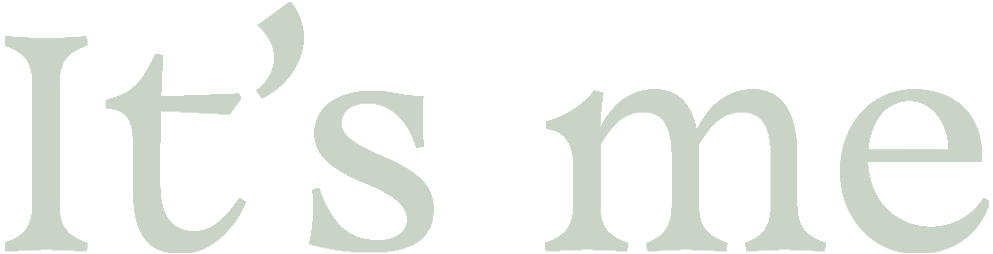
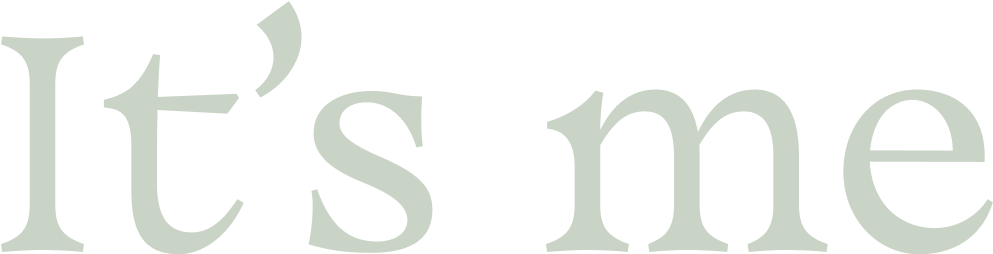
tons of little fixes and make it not garbage on mobile

diff --git a/src/About.tsx b/src/About.tsx
@@ -1,51 +1,59 @@
-import { ShaderCanvas } from "./ShaderCanvas";
-import { miniFrag } from "./frag/frag";
 import me from "./img/pic.jpg";
 
 export default function AboutContent() {
   return (
     <div className="w-screen min-h-screen relative flex md:flex-row flex-col justify-center item-center">
-      <div className="w-[30rem] h-auto flex items-center">
+      <div className="w-full md:w-[30rem] h-auto flex items-center">
         <div className="[&>p]:m-8 [&>p]:text-primary p-4 relative">
           <p className="font-bold">yeah you heard it</p>
           <p>i’m noah finer, i work at figma and live in san francisco</p>
           <p>that is a picture of me (nice)</p>
-          <p>you should click on the links below</p>
-          <div className="flex flex-wrap max-w-[30rem] justify-start items-center w-full p-4">
-            {/* TODO need my resume */}
+          <p>here's some links i couldn't find another spot for</p>
+          <div className="flex flex-wrap max-w-[30rem] justify-start items-center w-full p-4 gap-2">
             <a
-              href="https://google.com"
+              href="https://www.linkedin.com/in/noahfiner/"
               target="_blank"
               rel="noreferrer"
-              className="text-primary hover:bg-primary hover:text-secondary p-4"
+              className="text-primary hover:bg-primary hover:text-secondary p-4 border-2 border-primary"
             >
-              resume
+              linkedin
             </a>
             <a
-              href="https://open.spotify.com/artist/6logsn6gZDzDoEdZvnKn1d?si=jve52Ch-T6e9jcb7MK5VMQ"
+              href="https://twitter.com/finerflame"
               target="_blank"
               rel="noreferrer"
-              className="text-primary hover:bg-primary hover:text-secondary p-4"
+              className="text-primary hover:bg-primary hover:text-secondary p-4 border-2 border-primary"
             >
-              mc finer flame
+              inactive twitter (or X)
             </a>
             <a
-              href="https://finer.photo"
+              href="https://github.com/noahfiner"
               target="_blank"
               rel="noreferrer"
-              className="text-primary hover:bg-primary hover:text-secondary p-4"
+              className="text-primary hover:bg-primary hover:text-secondary p-4 border-2 border-primary"
             >
-              finer.photo
+              github
+            </a>
+            <a
+              href="mailto:noahfiner@gmail.com"
+              target="_blank"
+              rel="noreferrer"
+              className="text-primary hover:bg-primary hover:text-secondary p-4 border-2 border-primary"
+            >
+              email me
+            </a>
+            <a
+              href="https://old.noahfiner.com"
+              target="_blank"
+              rel="noreferrer"
+              className="text-primary hover:bg-primary hover:text-secondary p-4 border-2 border-primary"
+            >
+              old portfolio site from 2016
             </a>
           </div>
         </div>
       </div>
       <div className="md:w-80 relative md:my-auto ">
-        <div className="md:w-32 md:h-[20rem] w-[10rem] h-24 right-[6rem] top-[-2rem] md:right-0 absolute -z-10">
-          <div className="w-full h-full relative">
-            <ShaderCanvas frag={miniFrag}></ShaderCanvas>
-          </div>
-        </div>
         <img className="w-60 h-auto m-auto" alt="ya boi" src={me} />
       </div>
     </div>

diff --git a/src/Home.tsx b/src/Home.tsx
@@ -21,15 +21,17 @@ export default function Home() {
 
   const [visibleIdx, setVisibleIdx] = useState(0);
 
+  const height = document.documentElement.clientHeight;
+
   const onScroll = useCallback(() => {
     let scroll = window.scrollY;
-    if (scroll < window.innerHeight) scroll += 300;
-    let shouldShow = Math.floor((scroll + 50) / window.innerHeight) - 1;
+    if (scroll < height) scroll += 300;
+    let shouldShow = Math.floor((scroll + 50) / height) - 1;
 
     if (visibleIdx !== shouldShow) {
       setVisibleIdx(shouldShow);
     }
-  }, [visibleIdx, setVisibleIdx]);
+  }, [height, visibleIdx]);
 
   useEffect(() => {
     window.addEventListener("scroll", onScroll);
@@ -127,8 +129,8 @@ export default function Home() {
   ];
   return (
     <>
-      <div className="w-screen h-screen relative bg-secondary">
-        <div className="w-full h-full absolute">
+      <div className={`w-screen h-svh relative bg-secondary`}>
+        <div className="w-full h-svh absolute">
           <ShaderCanvas
             frag={frag}
             setUniforms={{
@@ -183,10 +185,8 @@ export default function Home() {
               } else {
                 window.scroll({
                   top:
-                    Math.floor(
-                      (window.scrollY + window.innerHeight + 100) /
-                        window.innerHeight
-                    ) * window.innerHeight,
+                    Math.floor((window.scrollY + height + 100) / height) *
+                    height,
                   left: 0,
                   behavior: "smooth",
                 });
@@ -198,7 +198,7 @@ export default function Home() {
         </div>
       </div>
 
-      <div className="w-full h-full fixed -z-10 top-0">
+      <div className="w-full h-lvh fixed -z-10 top-0">
         <ShaderCanvas
           frag={introFrag}
           setUniforms={{
@@ -213,7 +213,7 @@ export default function Home() {
 
       {intros.map((intro, idx) => (
         <div
-          className={`w-[80vw] max-w-xl h-screen relative text-primary flex flex-wrap justify-start items-between p-8 md:p-16`}
+          className={`w-[80vw] max-w-xl h-lvh relative text-primary flex flex-wrap justify-start items-between p-8 md:p-16`}
         >
           <h1
             className={`font-basteleur text-[6rem] md:text-[12rem] leading-[0.75] drop-shadow-intro transition-all duration-300 ${
@@ -226,11 +226,11 @@ export default function Home() {
           </h1>
           <div
             className={`h-50 flex flex-wrap flex-col justify-end gap-8 [&>p]:drop-shadow-introbody font-bold
-                      [&>p]:text-xl [&>p]:transition-all [&>p]:duration-300 ${
-                        idx === visibleIdx
-                          ? "[&>p]:opacity-100 [&>p]:translate-y-0"
-                          : "[&>p]:opacity-0 [&>p]:-translate-y-4"
-                      }`}
+              [&>p]:text-lg [&>p]:md:text-xl [&>p]:transition-all [&>p]:duration-300 ${
+                idx === visibleIdx
+                  ? "[&>p]:opacity-100 [&>p]:translate-y-0"
+                  : "[&>p]:opacity-0 [&>p]:-translate-y-4"
+              }`}
           >
             {intro.content}
           </div>

diff --git a/src/ContentPage.tsx b/src/ContentPage.tsx
@@ -6,14 +6,16 @@ import { miniFrag, titleFrag } from "./frag/frag";
 
 export function ContentPage({
   titleFragUniforms,
+  selected,
   children,
 }: PropsWithChildren<{
+  selected?: "me" | "projects" | "pics";
   titleFragUniforms?: { [key: string]: string | number };
 }>) {
   console.log(titleFragUniforms);
   return (
-    <div className="bg-secondary">
-      <div className="w-screen h-96 border-bottom-primary relative p-8">
+    <div className="bg-secondary pb-12">
+      <div className="w-screen h-52 md:h-72 border-bottom-primary relative p-8">
         <div className="h-full flex relative right-0 justify-start flex-col items-end">
           <Link to="/">
             <div className="h-16 w-16 cursor-pointer">
@@ -21,17 +23,29 @@ export function ContentPage({
             </div>
           </Link>
           <Link to="/me">
-            <p className="text-primary p-2 min-w-24 text-right hover:bg-primary hover:text-secondary">
+            <p
+              className={`text-primary text-lg p-2 md:text-base min-w-24 text-right hover:bg-primary hover:text-secondary ${
+                selected === "me" ? "underline" : ""
+              }`}
+            >
               me
             </p>
           </Link>
           <Link to="/projects">
-            <p className="text-primary p-2 min-w-24 text-right hover:bg-primary hover:text-secondary">
+            <p
+              className={`text-primary text-lg p-2 md:text-base min-w-24 text-right hover:bg-primary hover:text-secondary ${
+                selected === "projects" ? "underline" : ""
+              }`}
+            >
               projs
             </p>
           </Link>
           <Link to="/pics">
-            <p className="text-primary p-2 min-w-24 text-right hover:bg-primary hover:text-secondary">
+            <p
+              className={`text-primary text-lg p-2 md:text-base min-w-24 text-right hover:bg-primary hover:text-secondary ${
+                selected === "pics" ? "underline" : ""
+              }`}
+            >
               pics
             </p>
           </Link>
@@ -41,7 +55,7 @@ export function ContentPage({
             <ShaderCanvas frag={miniFrag} />
           </div>
         </div>
-        <div className="h-[16rem] top-[4rem] w-[30rem] md:w-[47rem] -left-4 md:left-8 absolute">
+        <div className="h-[8rem] sm:h-[16rem] top-[7rem] sm:top-[4rem] w-[20rem] sm:w-[30rem] md:w-[47rem] -left-4 md:left-8 absolute pointer-events-none">
           <div className="w-full h-full relative">
             <ShaderCanvas frag={titleFrag} setUniforms={titleFragUniforms} />
           </div>

diff --git a/src/App.tsx b/src/App.tsx
@@ -31,6 +31,7 @@ function About() {
         image_size_x: 993,
         image_size_y: 254,
       }}
+      selected="me"
     >
       <AboutContent />
     </ContentPage>
@@ -45,6 +46,7 @@ function Projects() {
         image_size_x: 1211,
         image_size_y: 296,
       }}
+      selected="projects"
     >
       <ProjectsContent />
     </ContentPage>
@@ -59,6 +61,7 @@ function Pics() {
         image_size_x: 1029,
         image_size_y: 242,
       }}
+      selected="pics"
     >
       <p>Pics asdfasdf</p>
     </ContentPage>

diff --git a/src/frag/frag.ts b/src/frag/frag.ts
@@ -314,11 +314,11 @@ void main(void)
     float dist = distance(vec2(mouse.x, mouse.y), v_texcoord);
 
     // -1 means first texture, 1 means second texture
-    float transitionAmt = smoothstep(0.1, 1.0, fract(u_scroll)) * 2.0 - 1.0;
+    float transitionAmt = smoothstep(-0.3, 1.0, fract(u_scroll)) * 2.0 - 1.0;
     
     float adjustedTime = u_time*0.05;
     
-    vec2 uv_fbm = (3. - 1.*v_texcoord);
+    vec2 uv_fbm = (3. - 2.*st);
     
     float noise = noise2d(sin(v_texcoord * u_time)*10000. + 300.)*1.0;
     

diff --git a/src/Projects.tsx b/src/Projects.tsx
@@ -23,7 +23,7 @@ function ProjectCard({ project }: { project: Project }) {
           className="h-48 md:h-full w-auto"
         />
         <div className="flex-grow h-full flex flex-col justify-between items-start md:gap-0 gap-4">
-          <div className="flex w-full relative justify-between items-center">
+          <div className="flex w-full relative justify-between items-center flex-wrap">
             <p className="font-bold p-2 -m-2">{project.title}</p>
             <p>{project.date}</p>
           </div>

diff --git a/public/index.html b/public/index.html
@@ -24,7 +24,7 @@
       work correctly both with client-side routing and a non-root public URL.
       Learn how to configure a non-root public URL by running `npm run build`.
     -->
-    <title>React App</title>
+    <title>Noah Finer</title>
   </head>
   <body>
     <noscript>You need to enable JavaScript to run this app.</noscript>

diff --git a/src/@types/ios-inner-height/index.d.ts b/src/@types/ios-inner-height/index.d.ts
@@ -1,0 +1,1 @@
+declare module 'ios-inner-height';
